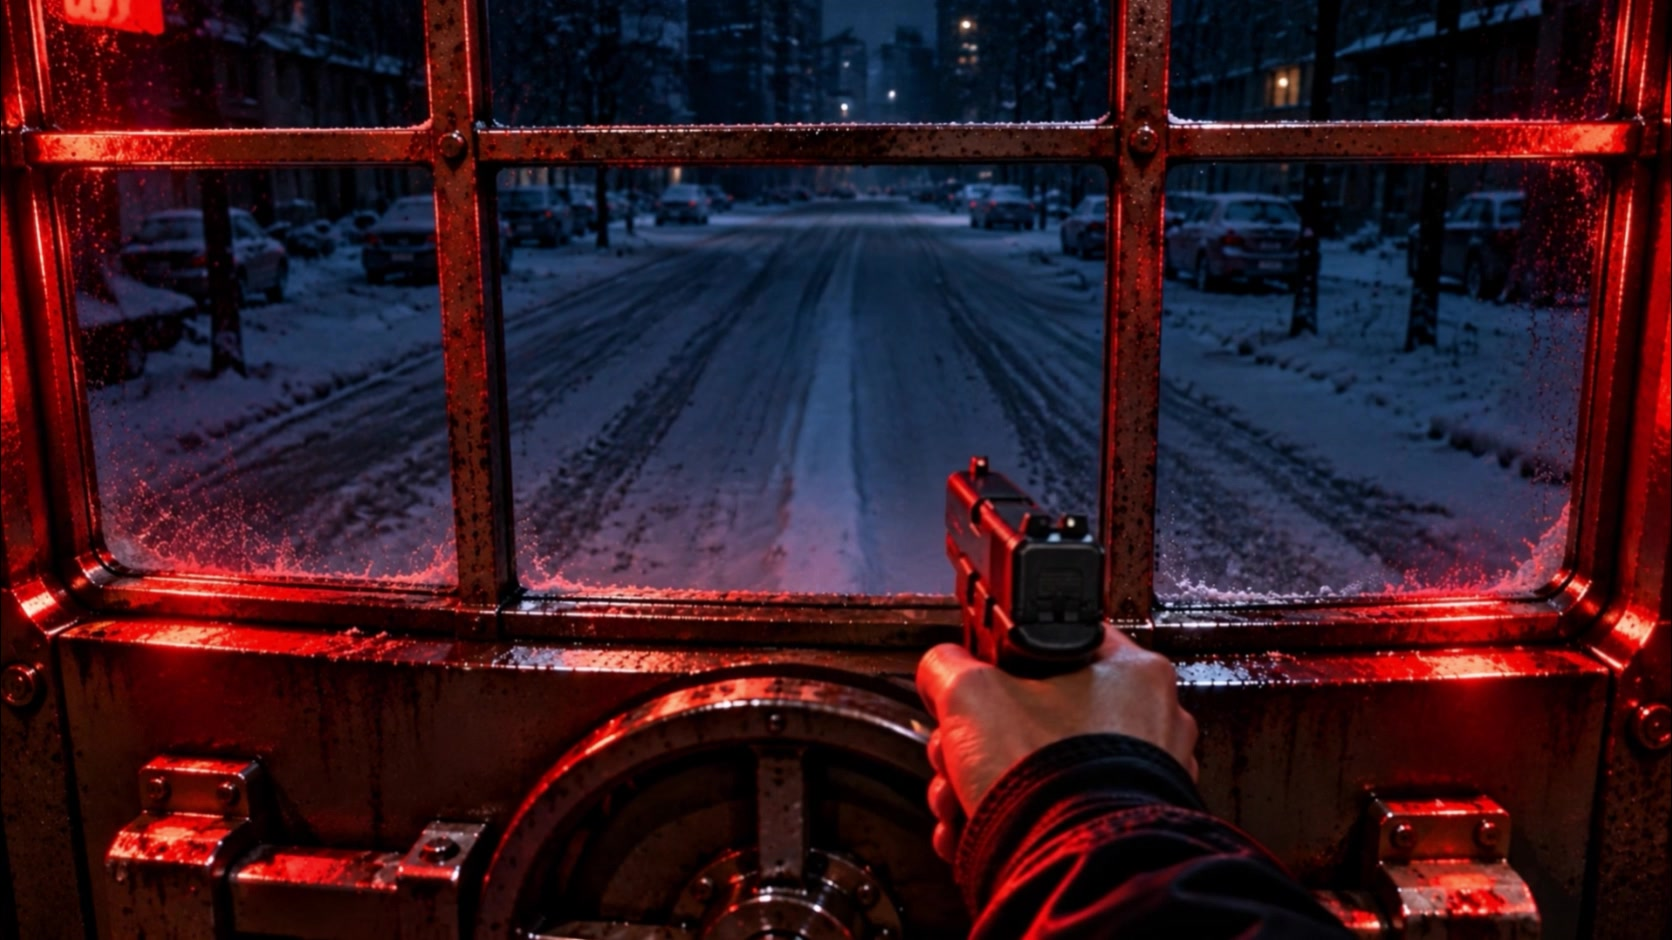
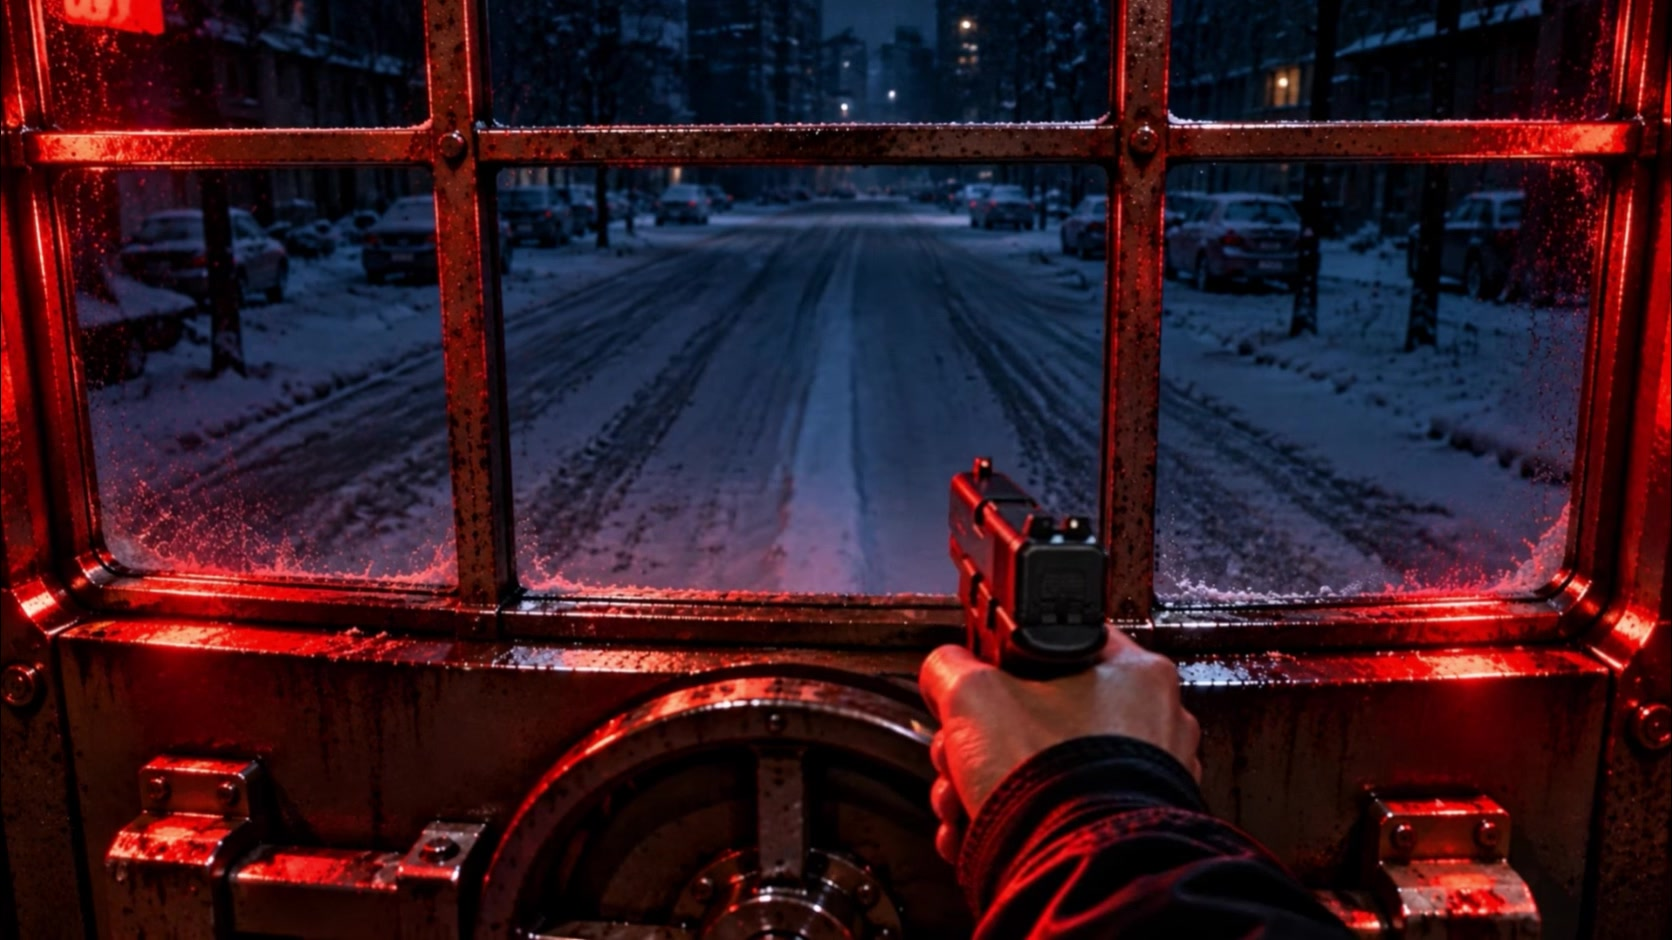
Fix Bayra question frame and play Anu admission video (#30)
* Fix Bayra's idle frame and play Anu's admission movie

* Build Bayra and Anu playback assets

---------

diff --git a/tools/prepare_encounter_media.py b/tools/prepare_encounter_media.py
@@ -1,49 +1,95 @@
-"""Build Ren'Py VP9/Opus playback files and stills from the encounter sources.
-Run git lfs pull first. Source framing and audio are preserved without scaling.
+"""Build Ren'Py VP9/Opus clips and stable stills without changing framing.
+
+Run git lfs pull first. Retired MP4s may be absent when the committed WebM
+exists. Source/output hashes avoid re-encoding unchanged footage on each build.
 """
 from concurrent.futures import ThreadPoolExecutor
+import hashlib
 import json
 from pathlib import Path
 import subprocess
 
 ROOT = Path(__file__).resolve().parents[1]
 MANIFEST = json.loads((ROOT / 'tools/encounter_media.json').read_text())
+CACHE_PATH = ROOT / 'game/images/encounter-media-manifest.json'
+ENCODING = 'vp9-crf25-speed5-opus128-v1'
 
 
-def run(*args):
-    return subprocess.check_output(args, text=True)
+def digest(path):
+    with path.open('rb') as stream:
+        if stream.read(64).startswith(b'version https://git-lfs.github.com/spec/v1'):
+            raise RuntimeError(f'{path}: LFS pointer; run git lfs pull first')
+        stream.seek(0)
+        return hashlib.file_digest(stream, 'sha256').hexdigest()
 
 
-def duration(path):
-    return float(run('ffprobe', '-v', 'error', '-show_entries', 'format=duration', '-of', 'csv=p=0', str(path)))
-
-
-def build_clip(item):
+def build_clip(item, previous):
     who, key, source_name = item
     source = ROOT / 'game/Video' / who / source_name
-    with source.open('rb') as f:
-        if f.read(64).startswith(b'version https://git-lfs.github.com/spec/v1'):
-            raise RuntimeError(f'{source}: LFS pointer; run git lfs pull before conversion')
     output = source.with_name(key + '.webm')
-    subprocess.run(['ffmpeg', '-hide_banner', '-loglevel', 'error', '-y', '-i', str(source),
-                    '-c:v', 'libvpx-vp9', '-crf', '25', '-b:v', '0', '-cpu-used', '5',
-                    '-row-mt', '1', '-threads', '2', '-pix_fmt', 'yuv420p',
-                    '-c:a', 'libopus', '-b:a', '128k', str(output)], check=True)
-    print(f'{who}/{key}: {duration(output):.3f}s', flush=True)
+    if not source.exists():
+        # The author can remove source MP4s after committing playback WebMs.
+        if not output.exists():
+            raise RuntimeError(f'{who}/{key}: neither source MP4 nor playback WebM exists')
+        digest(output)
+        print(f'{who}/{key}: keeping committed WebM (source retired)', flush=True)
+        return who + '/' + key, previous.get(who + '/' + key)
+
+    fingerprint = digest(source)
+    old = previous.get(who + '/' + key) or {}
+    if (old.get('source_sha256') == fingerprint and old.get('encoding') == ENCODING
+            and output.exists() and old.get('output_sha256') == digest(output)):
+        print(f'{who}/{key}: unchanged', flush=True)
+        return who + '/' + key, old
+
+    temporary = output.with_name(output.stem + '.building.webm')
+    try:
+        subprocess.run(['ffmpeg', '-hide_banner', '-loglevel', 'error', '-y', '-i', str(source),
+                        '-c:v', 'libvpx-vp9', '-crf', '25', '-b:v', '0', '-cpu-used', '5',
+                        '-row-mt', '1', '-threads', '2', '-pix_fmt', 'yuv420p',
+                        '-c:a', 'libopus', '-b:a', '128k', str(temporary)], check=True)
+        temporary.replace(output)
+    finally:
+        temporary.unlink(missing_ok=True)
+    print(f'{who}/{key}: converted', flush=True)
+    return who + '/' + key, {'source': str(source.relative_to(ROOT / 'game')),
+                             'source_sha256': fingerprint, 'output_sha256': digest(output),
+                             'encoding': ENCODING}
+
+
+def build_frame(who, name, clip, position, previous):
+    # Always extract from the actual playback clip, including when MP4s are retired.
+    source = ROOT / 'game/Video' / who / (clip + '.webm')
+    output = ROOT / 'game/images' / who / 'frames' / (name + '.jpg')
+    spec = {'source': str(source.relative_to(ROOT / 'game')),
+            'source_sha256': digest(source), 'position': position}
+    old = previous.get(who + '/' + name, {})
+    if (all(old.get(k) == value for k, value in spec.items()) and output.exists()
+            and old.get('image_sha256') == digest(output)):
+        return who + '/' + name, old
+    output.parent.mkdir(parents=True, exist_ok=True)
+    command = ['ffmpeg', '-hide_banner', '-loglevel', 'error', '-y', '-threads', '2']
+    command += ['-sseof', '-1'] if position == 'end' else ['-ss', str(position)]
+    command += ['-i', str(source), '-an']
+    if position == 'end':
+        command += ['-vf', 'reverse']
+    command += ['-frames:v', '1', '-q:v', '2', '-update', '1', str(output)]
+    subprocess.run(command, check=True)
+    spec['image_sha256'] = digest(output)
+    print(f'{who}/{name}: extracted {clip} at {position}', flush=True)
+    return who + '/' + name, spec
 
 
 def main():
+    previous = json.loads(CACHE_PATH.read_text()) if CACHE_PATH.exists() else {}
     jobs = [(who, key, name) for who, config in MANIFEST.items() for key, name in config['clips'].items()]
     with ThreadPoolExecutor(max_workers=2) as pool:
-        list(pool.map(build_clip, jobs))
-    for who, config in MANIFEST.items():
-        folder = ROOT / 'game/images' / who / 'frames'
-        folder.mkdir(parents=True, exist_ok=True)
-        for name, (clip, position) in config['frames'].items():
-            source = ROOT / 'game/Video' / who / config['clips'][clip]
-            position = max(0, duration(source) - .1) if position == 'end' else position
-            subprocess.run(['ffmpeg', '-hide_banner', '-loglevel', 'error', '-y', '-ss', str(position),
-                            '-i', str(source), '-frames:v', '1', '-q:v', '2', str(folder / (name + '.jpg'))], check=True)
+        clips = dict(pool.map(lambda item: build_clip(item, previous.get('clips', {})), jobs))
+    frames = dict(build_frame(who, name, clip, position, previous.get('frames', {}))
+                  for who, config in MANIFEST.items()
+                  for name, (clip, position) in config['frames'].items())
+    CACHE_PATH.write_text(json.dumps({'clips': {key: value for key, value in clips.items() if value},
+                                     'frames': frames}, ensure_ascii=False, indent=2) + '\n')
 
 
 if __name__ == '__main__':

diff --git a/README.md b/README.md
@@ -147,12 +147,15 @@ A black clock/count screen and metal door knock separate visitors.
 Bayra's updated footage combines arrival with introduction, entry with admission,
 and departure with rejection. These clips play once, without the old extra segments.
 His three supplied question recordings play before their matching answers.
+His idle pose uses the exact first frame of the corrected answer-1 playback clip;
+the former 0.08s still was a blended frame that made his face appear doubled.
 
 Anu follows the updated story's monster encounter. Rejecting or shooting her proceeds
 to the next visitor without a civilian death (or ends the preview if she is last).
 Admitting her loses the game.
-No Anu admission video was supplied: her supplied smiling still appears briefly,
-then the monster-ending result screen. This can be replaced when that clip arrives.
+Anu's supplied admission movie now plays in full: the door opens and she attacks,
+then the monster-ending result appears. The still-image placeholder is no longer
+used during new admissions.
 Her player question voice recordings are also not supplied yet.
 
 ### Interactive belongings inspection
@@ -209,9 +212,12 @@ python tools/prepare_transition_frames.py --audit
 
 This builds Bayra and Anu VP9/Opus WebMs and stable JPEG frames, preserving source
 resolution and audio. Commit the derivatives through Git LFS before pushing.
-The **Build encounter playback media** GitHub Actions workflow can also build and
-commit them on the selected branch. Run it manually through Actions after
-updating the source clips or conversion manifest.
+The **Build encounter playback media** GitHub Actions workflow builds and commits
+media when Bayra/Anu source MP4s or the converter/manifest change. It can also be
+run manually through Actions on a selected branch. Removed MP4s are supported:
+the converter preserves their existing WebMs, and extracts stills from the actual
+playback files. Hashes in `game/images/encounter-media-manifest.json` prevent
+unchanged clips/stills from being rebuilt. Keep the WebMs when retiring originals.
 
 After replacing any playable WebM, regenerate the transition posters with
 `tools/prepare_transition_frames.py`. It reads the live clip tables and playback
@@ -244,11 +250,11 @@ renpy.exe <project-path> test shelter_transition_checks --savedir <project-path>
 node tools/test_video_bridge.mjs
 ```
 
-The native suite plays all 44 clips to EOF, then rejects all five visitors in their
+The native suite plays all 45 clips to EOF, then rejects all five visitors in their
 shuffled order, opening Anu's notebook and playing her answer wherever she appears.
 It verifies no duplicates or missing visitors, question/clock save-load recovery,
 replay reset, legacy-save progression and seeded coverage of every first/last visitor.
-To run only the order checks without replaying all 44 movies:
+To run only the order checks without replaying all 45 movies:
 
 ```text
 renpy.exe <project-path> test shelter_transition_checks::random_roster_and_legacy_saves --savedir <project-path>/tmp/order-saves
